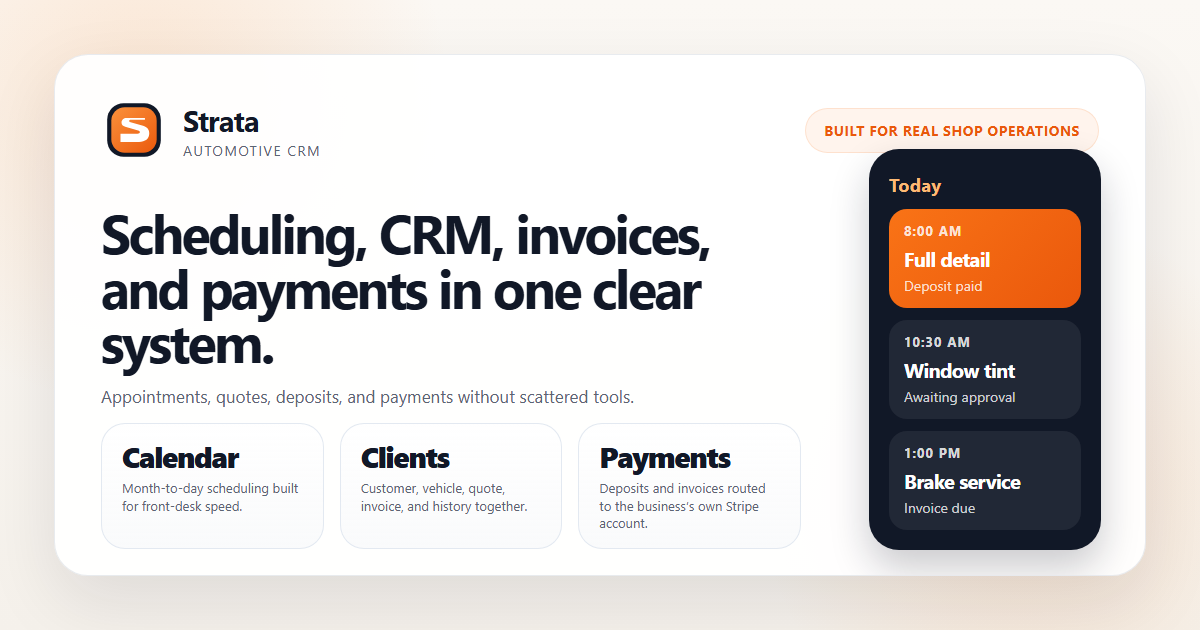
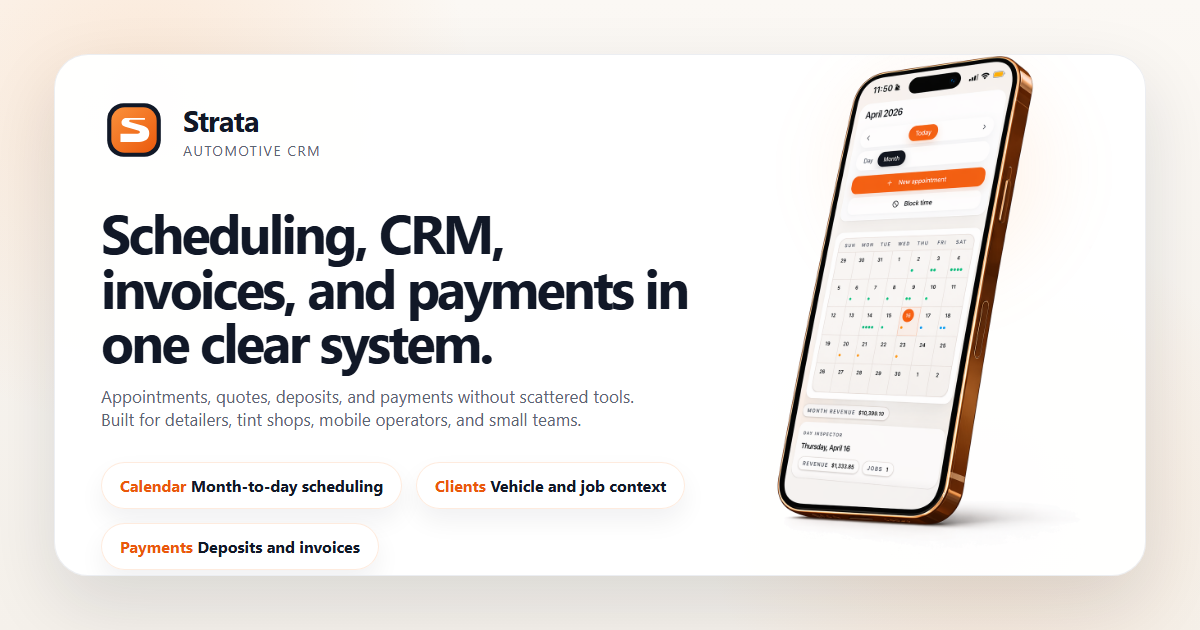
Refresh social preview with hero phone

Changed region(s): [[0.0925, 0.0905, 0.925, 0.9048], [0.0617, 0.3317, 0.5858, 0.6032], [0.0925, 0.8444, 0.3083, 0.9048]]

diff --git a/web/routes/_public._index.tsx b/web/routes/_public._index.tsx
@@ -124,7 +124,7 @@ const homeSchema = {
 };
 
 export function meta() {
-  const socialImageUrl = "https://stratacrm.app/social-preview.png?v=20260404a";
+  const socialImageUrl = "https://stratacrm.app/social-preview.png?v=20260416b";
   return [
     { title: homeTitle },
     { name: "description", content: homeDescription },
@@ -659,7 +659,6 @@ export default function LandingPage() {
       <section className="px-5 pb-20 sm:px-6 sm:pb-24 lg:px-8">
         <div className="mx-auto max-w-5xl rounded-[28px] border border-orange-100 bg-white/90 p-6 shadow-[0_16px_50px_rgba(15,23,42,0.06)] sm:p-8">
           <div className="mb-6 space-y-3">
-            <p className="text-xs font-semibold uppercase tracking-[0.2em] text-orange-700">Built for real workflows</p>
             <h2 className="text-2xl font-bold tracking-tight text-gray-950 sm:text-3xl">
               The product depth you need, without the overhead.
             </h2>

diff --git a/web/root.tsx b/web/root.tsx
@@ -22,7 +22,7 @@ import { recordRuntimeError } from "./lib/runtimeErrors";
 
 const isProduction = import.meta.env.PROD;
 const siteUrl = "https://stratacrm.app";
-const socialPreviewVersion = "20260404a";
+const socialPreviewVersion = "20260416b";
 const defaultTitle = "Strata - fast CRM for auto service shops";
 const defaultDescription =
   "Strata helps automotive service businesses run scheduling, clients, vehicles, jobs, quotes, invoices, and payments in one clear operating system.";

diff --git a/web/components/public/SeoLandingPage.tsx b/web/components/public/SeoLandingPage.tsx
@@ -12,7 +12,7 @@ type SeoLandingPageProps = {
 
 export function buildSeoMeta(page: SeoPageConfig) {
   const url = `https://stratacrm.app${page.path}`;
-  const socialImageUrl = "https://stratacrm.app/social-preview.png?v=20260404a";
+  const socialImageUrl = "https://stratacrm.app/social-preview.png?v=20260416b";
   return [
     { title: page.seoTitle },
     { name: "description", content: page.seoDescription },

diff --git a/web/routes/_public.features.tsx b/web/routes/_public.features.tsx
@@ -194,7 +194,7 @@ const featuresSchema = {
 };
 
 export function meta() {
-  const socialImageUrl = "https://stratacrm.app/social-preview.png?v=20260404a";
+  const socialImageUrl = "https://stratacrm.app/social-preview.png?v=20260416b";
   return [
     { title: featuresTitle },
     { name: "description", content: featuresDescription },

diff --git a/web/routes/_public.pricing.tsx b/web/routes/_public.pricing.tsx
@@ -143,7 +143,7 @@ const switchComparison = [
 ];
 
 export function meta() {
-  const socialImageUrl = "https://stratacrm.app/social-preview.png?v=20260404a";
+  const socialImageUrl = "https://stratacrm.app/social-preview.png?v=20260416b";
   return [
     { title: pricingTitle },
     { name: "description", content: pricingDescription },
